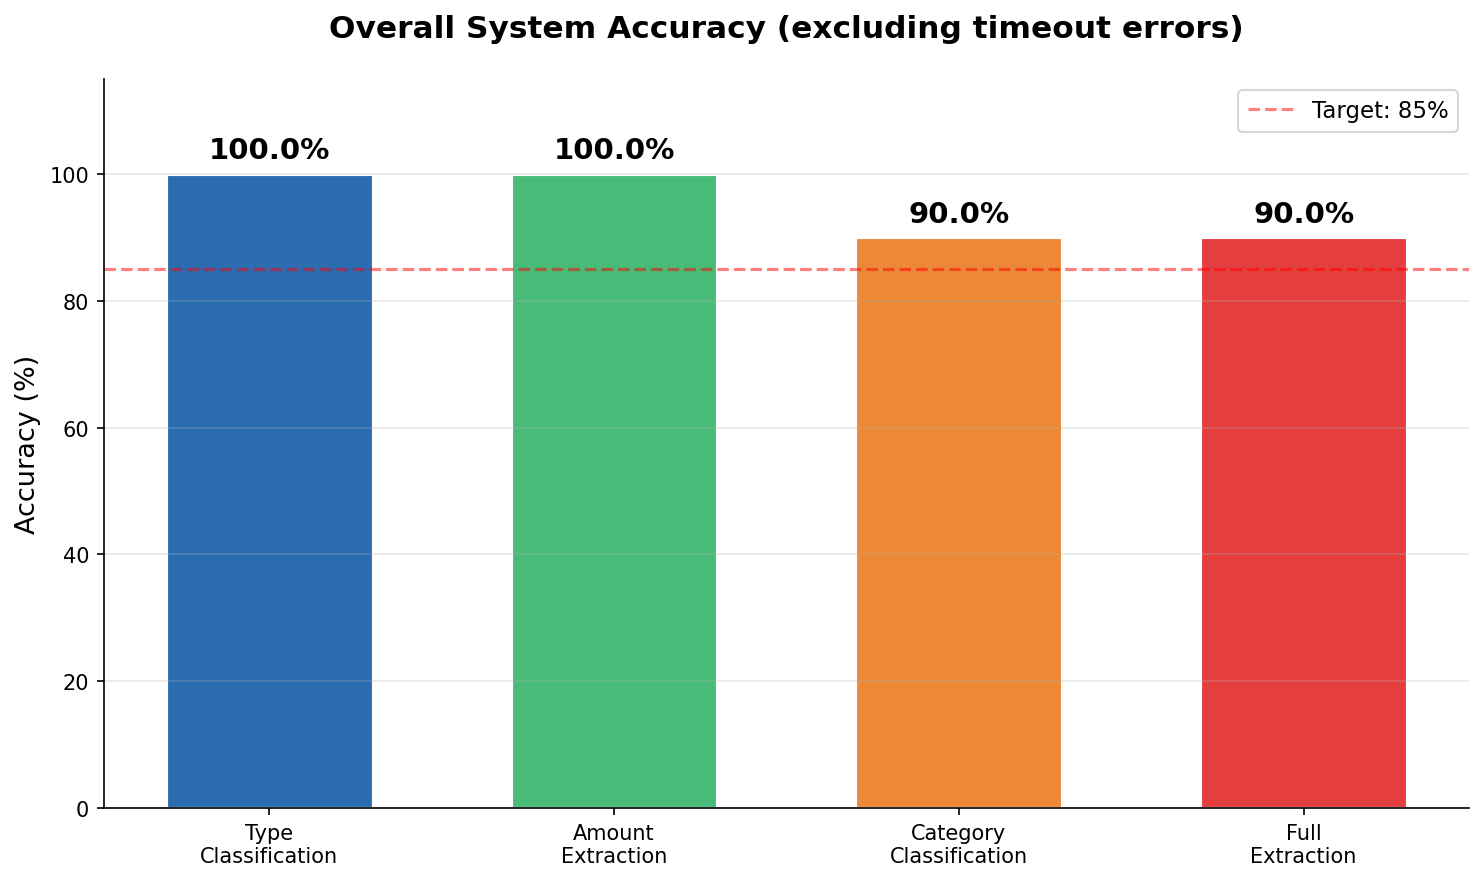
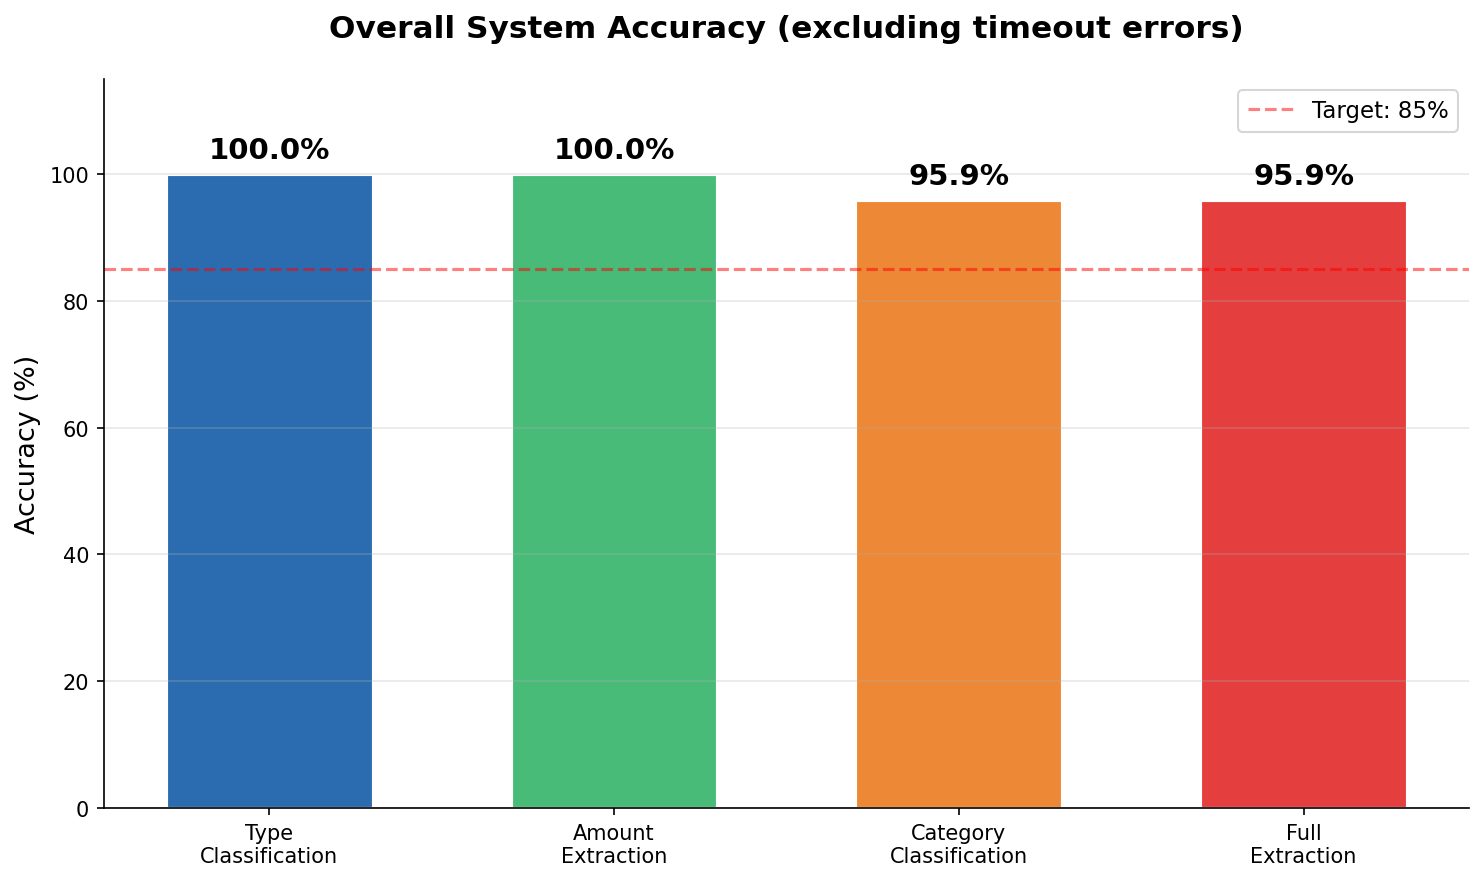
Improve app speed, fix evaluation delay, add final results
- Add is_available() HTTP ping to replace full embedding test_connection()
- Use is_available() in retriever for faster app startup
- Increase evaluation delay to 4s to reduce rate limiting
- Add filename argument support to generate_charts.py
- Add final evaluation results (96.8% Macro F1, 95.9% accuracy)
- Update charts with best evaluation run (2026-05-14)

Changed region(s): [[0.8059, 0.1839, 0.9609, 0.2758], [0.558, 0.1839, 0.7129, 0.2758]]

diff --git a/evaluation/eval_extraction.py b/evaluation/eval_extraction.py
@@ -47,9 +47,10 @@ def evaluate(parser, test_data):
         expected_amount = item["expected_amount"]
         expected_category = item["expected_category"]
 
-        # تأخير كل 5 جمل لتجنب rate limiting
-        if i > 0 and i % 5 == 0:
-            time.sleep(3)
+        # تأخير بين كل جملة لتجنب rate limiting
+        if i > 0:
+            time.sleep(4)
+        if i > 0 and i % 10 == 0:
             print(f"   ... تم {i}/{total} (أخطاء: {errors_count})")
 
         # استدعاء الـ Parser
@@ -57,9 +58,9 @@ def evaluate(parser, test_data):
             result = parser.parse_expense(sentence)
             actual_type = result.get("type", "error")
 
-            # إذا طلع error، جرّب مرة ثانية بعد انتظار
+            # إذا طلع error، جرّب مرة ثانية بعد انتظار أطول
             if actual_type == "error":
-                time.sleep(5)
+                time.sleep(10)
                 result = parser.parse_expense(sentence)
                 actual_type = result.get("type", "error")
 

diff --git a/evaluation/generate_charts.py b/evaluation/generate_charts.py
@@ -18,7 +18,13 @@ CHARTS_DIR = os.path.join(os.path.dirname(__file__), "charts")
 os.makedirs(CHARTS_DIR, exist_ok=True)
 
 
-def find_latest_results():
+def find_latest_results(filename=None):
+    if filename:
+        path = os.path.join(RESULTS_DIR, filename)
+        if os.path.exists(path):
+            return path
+        print(f"❌ الملف غير موجود: {filename}")
+        return None
     csv_files = [f for f in os.listdir(RESULTS_DIR) if f.startswith("eval_results_") and f.endswith(".csv")]
     if not csv_files:
         print("❌ لا توجد نتائج! شغّل eval_extraction.py أولاً")
@@ -267,7 +273,8 @@ def main():
     print("📊 توليد الرسوم البيانية...")
     print("=" * 60)
 
-    results_file = find_latest_results()
+    target = sys.argv[1] if len(sys.argv) > 1 else None
+    results_file = find_latest_results(target)
     if not results_file:
         return
 

diff --git a/src/rag/embedding.py b/src/rag/embedding.py
@@ -139,6 +139,17 @@ class EmbeddingEngine:
             )
         return context
 
+    def is_available(self) -> bool:
+        """فحص سريع لـ Ollama بدون embedding كامل"""
+        try:
+            response = requests.get(
+                f"{OLLAMA_BASE_URL}/api/tags",
+                timeout=3
+            )
+            return response.status_code == 200
+        except Exception:
+            return False
+
     def test_connection(self) -> bool:
         """اختبار الاتصال بـ Ollama"""
         try:

diff --git a/src/rag/retriever.py b/src/rag/retriever.py
@@ -18,7 +18,7 @@ class FinancialRetriever:
         # محاولة تشغيل Embedding Engine
         try:
             self.embedding = EmbeddingEngine()
-            self.embedding_available = self.embedding.test_connection()
+            self.embedding_available = self.embedding.is_available()
         except Exception:
             self.embedding = None
             self.embedding_available = False
